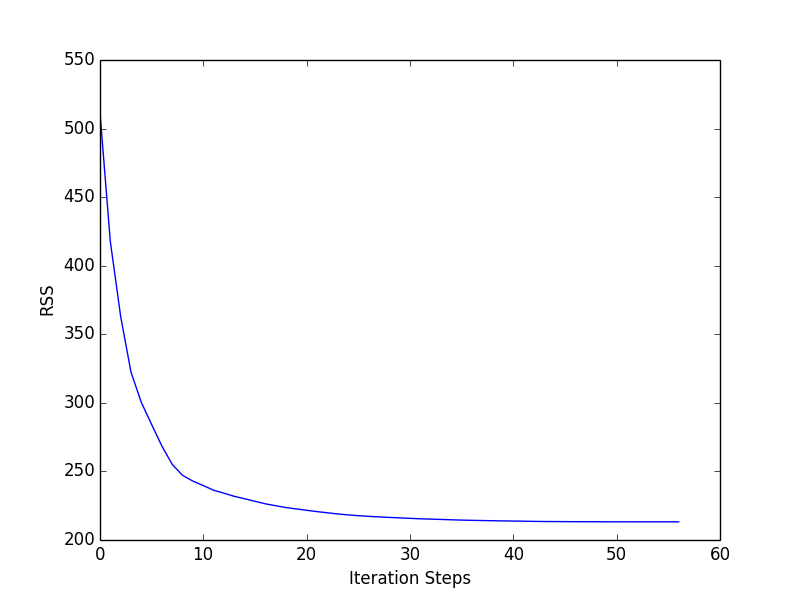
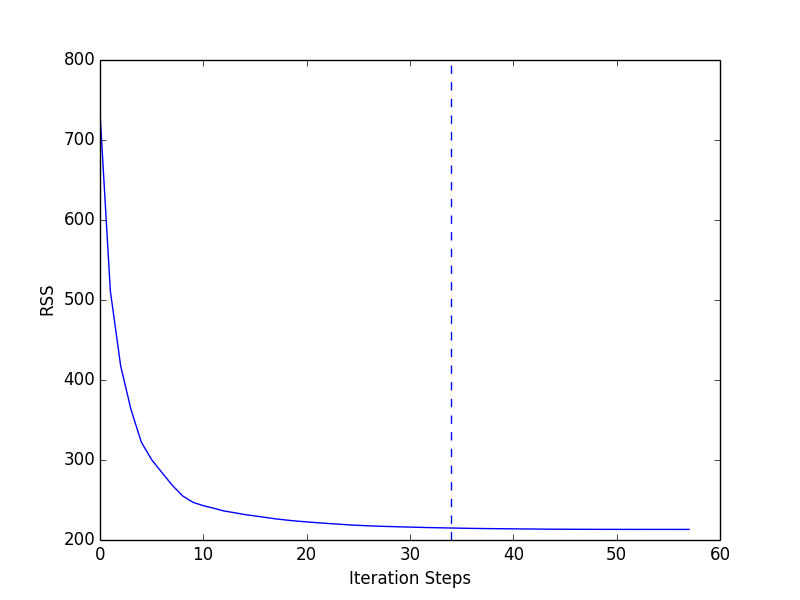
finish q4

diff --git a/hm2/code/q4.py b/hm2/code/q4.py
@@ -2,6 +2,8 @@ import numpy as np
 import random
 from numpy.linalg import inv
 import matplotlib.pyplot as plt
+from sklearn.utils import shuffle
+from scipy.sparse import coo_matrix
 
 
 def computeMisclassiError(predict_class, y):
@@ -47,6 +49,8 @@ class StepWiseRegModel:
 		X = np.hstack((np.reshape(intercept, [N, -1]), X))
 		beta = np.zeros(p + 1)
 		beta[0] = np.dot(intercept, y) * 1.0 / np.dot(intercept, intercept)
+
+		self.fitted_beta.append(beta)
 
 		X_dup = X.copy() # we want to store the original X through the process
 		X_used_ind = [0]
@@ -104,15 +108,18 @@ class StepWiseRegModel:
 		if depict:
 			plt.figure(1)
 			plt.plot(range(len(RSS_list)), RSS_list)
+			plt.axvline(x=34, linestyle='--')
 			plt.xlabel('Iteration Steps')
 			plt.ylabel('RSS')
 			plt.savefig('learn_rss_%s.png'%(data_type))
+
 			plt.show()
 
 			plt.figure(2)
 			plt.plot(range(len(classification_error)), classification_error)
+			plt.axvline(x=34, linestyle='--')
 			plt.xlabel('Iteration Steps')
-			plt.ylabel('Misclassification Error on training set')
+			plt.ylabel('Misclassification Error on %s set' %(data_type))
 			plt.savefig('learn_error_%s.png'%(data_type))
 			plt.show()
 
@@ -125,6 +132,11 @@ class StepWiseRegModel:
 		[N, p] = X.shape
 		gap = N / 10
 		classification_error = np.zeros([10, p])
+
+		#X = X[np.random.permutation(X.shape[0]), :]
+		data_sparse = coo_matrix(X)
+		X, X_sparse, y = shuffle(X, data_sparse, y, random_state=0)
+
 
 		for i in xrange(10):
 			X_valid = X[gap * i : gap * (i + 1)]
@@ -174,7 +186,61 @@ class StepWiseRegModel:
 
 		print "Congrats! 10 fold cross validation finished successfully!"
 
-	def plot
+	def plotCoeffPathVSStep(self):
+		p = len(self.fitted_beta)
+		beta = np.array(self.fitted_beta)
+		beta = list(beta.T)
+		#print beta.shape
+		for i in range(p):
+			plt.plot(range(p), beta[i])
+
+		plt.show()
+
+	def plotCoeffPathVSStep(self):
+
+		p = len(self.fitted_beta)
+		beta = np.array(self.fitted_beta)
+		beta = list(beta.T)
+		#print beta.shape
+		plt.plot(range(p), beta[0], label = 'intercept')
+		for i in range(1, len(self.index_pick_order)):
+			plt.plot(range(p), beta[i], label = str(self.index_pick_order[i]))
+			if i == 10:
+				plt.legend(loc='upper right', prop={'size': 10}, framealpha = 0.5)
+
+		# for i in range(p):
+		# 	line = plt.plot(range(p), beta[i], label = str(i))
+		# 	if i in first_10_variables:
+		# 		plt.legend(handles = [])
+
+		plt.xlabel('iteration step')
+		plt.ylabel('coefficient path')
+		plt.savefig('coefficient_path_step.png')
+		plt.show()
+		
+
+
+	def plotCoeffPathVSSR2(self, RSS_list, y):
+		print len(self.fitted_beta)
+		p = len(self.fitted_beta)
+		beta = np.array(self.fitted_beta)
+		beta = list(beta.T)
+
+		SS_total = np.sum((y - np.mean(y)) ** 2)
+		R2 = list(1 - np.array(RSS_list) / SS_total)
+
+		plt.plot(R2, beta[0], label = 'intercept')
+		for i in range(1, len(self.index_pick_order)):
+			plt.plot(R2, beta[i], label = str(self.index_pick_order[i]))
+			if i == 10:
+				plt.legend(loc='upper right', prop={'size': 10}, framealpha = 0.5)
+
+
+		plt.xlabel('R^2')
+		plt.ylabel('coefficient path')
+		plt.savefig('coefficient_path_r2.png')
+		plt.show()
+		
 
 
 def loadSpamData(data_path, index_path):
@@ -184,7 +250,7 @@ def loadSpamData(data_path, index_path):
 	ind = np.loadtxt(index_path, delimiter =' ')
 	#print X[1, -3:]
 	X[:, -3:] = np.log(X[:, -3:])
-	X[:, : -3] = (X[:, : -3] == 0) * 1
+	X[:, : -3] = (X[:, : -3] != 0) * 1
 
 	ind_train = []
 	ind_test = []
@@ -223,19 +289,19 @@ if __name__ == '__main__':
 	
 	##### plot learning curve #####
 	
-	model.predictAllStepAndComputeStats(X_train, y_train, depict = True)
-	print computeMisclassiError(predict_class, y_train)
+	RSS_list, _ = model.predictAllStepAndComputeStats(X_train, y_train, depict = True)
+	#print computeMisclassiError(predict_class, y_train)
 
 
 	######  10 fold cross validation #######
 	
-	model.perform10Fold(X_train, y_train)
+	#model.perform10Fold(X_train, y_train)
 
 	######  predict on the testing set and plot the prediction curve #######
 	#model.predictAllStepAndComputeStats(X_test, y_test, depict = True, data_type = 'test')
 
-
-
+	model.plotCoeffPathVSStep()
+	model.plotCoeffPathVSSR2(RSS_list, y_train)
 
 
 
